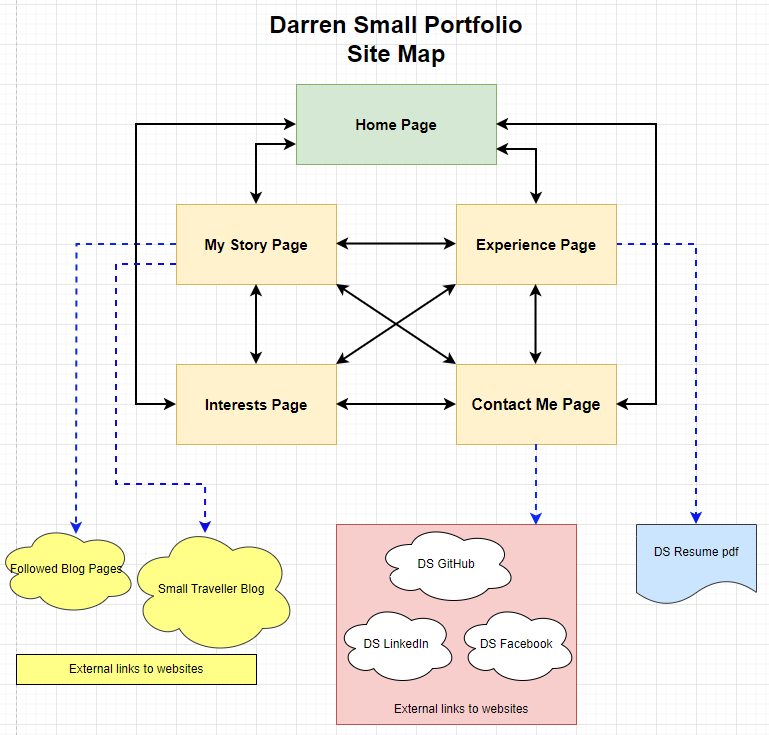
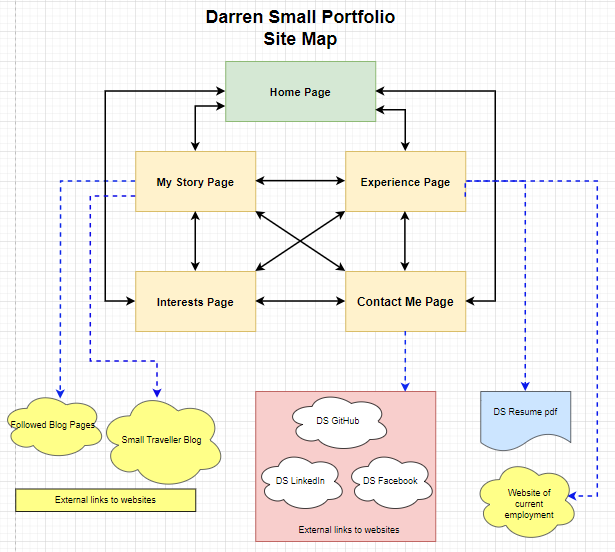
added image of link to current employers website

Changed region(s): [[0.0, 0.0, 0.9886, 1.0]]

diff --git a/README.md b/README.md
@@ -24,7 +24,10 @@ The features of each and a image of Mobile view are:
         - ![Small Traveller Blog](./docs/Small%20Traveller%20Blog.png)
 - **Experience Page**
     - This page is designed to display my work experience over the last 15 years and how I have grown and achieved the current position I am currently employed in.
-    - Employers can download my resume from this page.
+    - This contains a link to my current employers company website, should they be interested in viewing the current software product I am involved in on a day to day basis.
+        - this is an image of the website the link opens:
+        - ![myPak Solutions Website](./docs/Current%20employers%20website.png)
+    - Employers can also download my resume from this page.
     - ![Mobile Experience Page](./docs/Experience%20Page%20Mobile.png)
 - **Interests Page**
     - This is a page to explain my career and other interests in life away from work and how it reflects on my personality.
